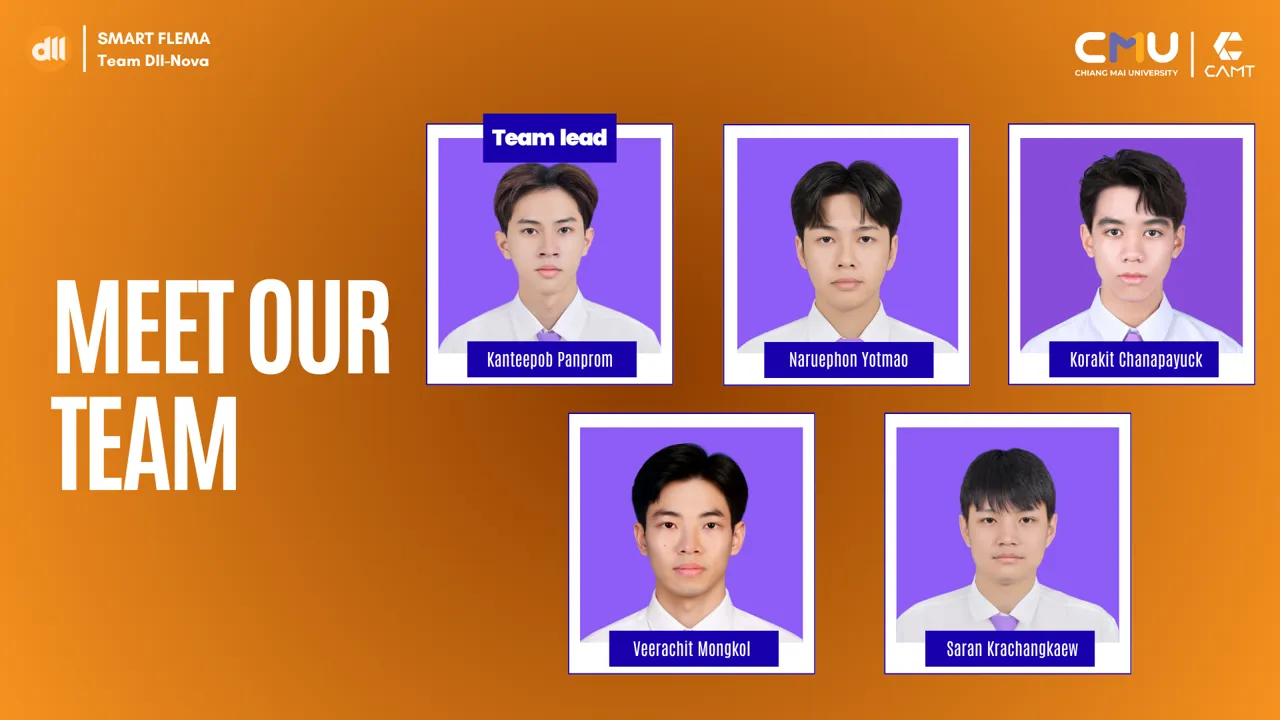
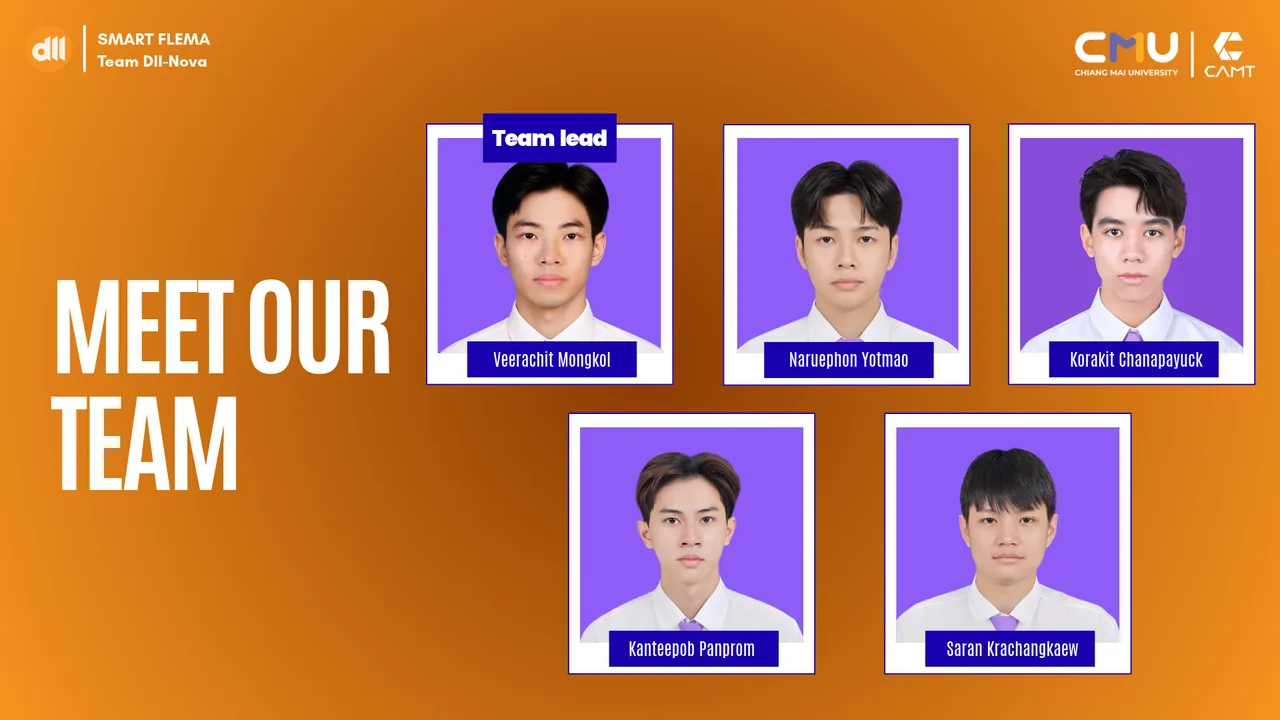
docs(projects): refine Smart-FLEMA description, team and contribution details

diff --git a/script.js b/script.js
@@ -301,26 +301,29 @@ const projects = [
     id: "smart-flema",
     title: "Smart-FLEMA",
     subtitle: "ICT Startup Competition 2026",
-    shortDescription: "An international smart-city business concept exploring crowd management and public-safety workflows.",
+    shortDescription: "A business concept that turns camera crowd data into decisions, for public safety and for planning where shops and events should go.",
     award: "Winning the Audience Popular Vote Award.",
-    problem: "Large public events need clearer ways to anticipate crowd pressure and coordinate safer movement through shared urban spaces.",
-    projectScope: "A hackathon concept developed with an international team at the International College of Technology in Kanazawa, Japan.",
+    problem: "Organisers of markets, malls, and events cannot easily see how people move through their space, so some areas get crowded and unsafe while others stay empty.",
+    projectScope: "A hackathon concept developed by a team of CAMT students and presented at the International College of Technology in Kanazawa, Japan.",
     role: "CAMT Representative & Idea Contributor",
     responsibilities: [
-      "Collaborated with international team members on a smart-city business idea.",
+      "Represented CAMT with a five-person team of fellow students (Team Dll-Nova) at the ICT Startup Competition in Kanazawa, Japan.",
+      "Contributed to UX and business-focused product design.",
+      "Collaborated with teammates on a smart-city business idea.",
       "Helped define the problem, proposed user workflows, and feasibility considerations.",
       "Contributed to the final pitch and presentation.",
       "Won the Audience Popular Vote Award at the ICT Startup Competition 2026."
     ],
     technicalImplementation: [
-      "The concept proposed crowd-management and public-safety workflows.",
-      "The idea explored how future data sources might support operational decisions.",
+      "The concept proposed a platform that turns foot traffic at flea markets and event venues into measurable revenue, following a Capture, Analyze, Optimize flow.",
+      "The same camera data could serve two uses: public safety, and layout planning, such as spreading popular shops across an event so visitors are not all in one spot.",
+      "The pitch covered a business model of subscriptions, one-time setup fees, and managed event support, with a market size estimate for Thailand and Asia-Pacific.",
       "No computer-vision system, dashboard, IoT integration, heatmap, or alerting software was implemented."
     ],
     technologies: ["Problem Framing", "User Flows", "Business Concept", "Pitching"],
     status: "Hackathon concept only",
     statusLabel: "Hackathon Concept",
-    teamType: "International Team",
+    teamType: "Student Team",
     year: "2026",
     repository: null,
     demo: null,
